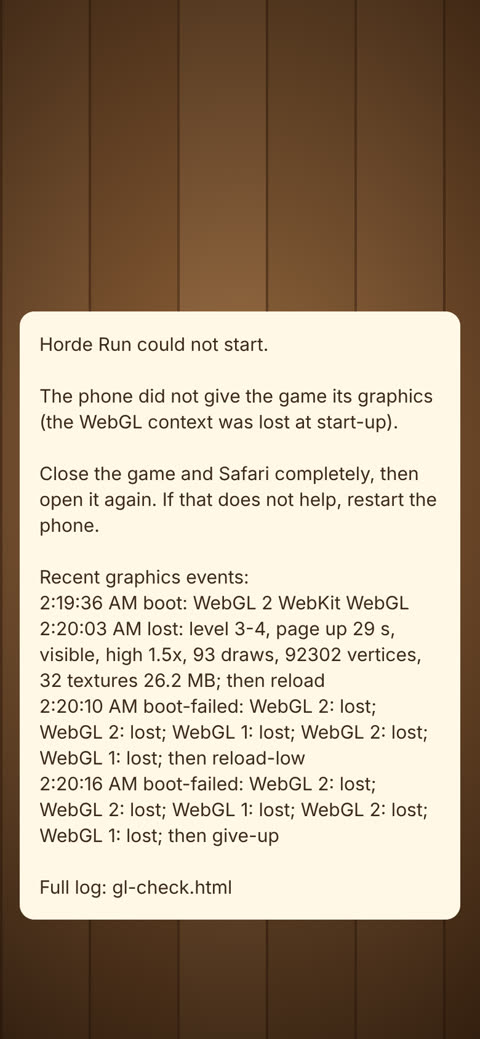
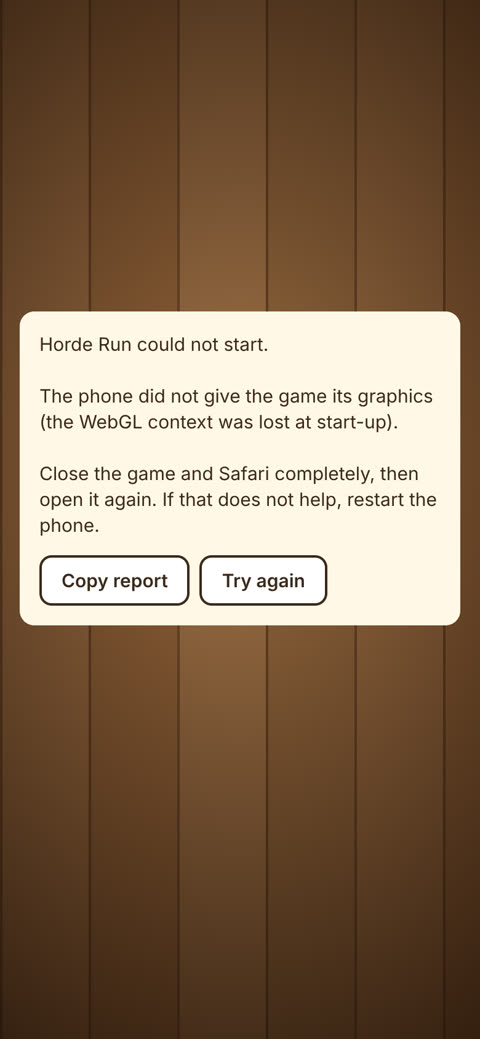
Error card: Copy report and Try again instead of the inline log
The card keeps only the message. Copy report copies a plain-text report for an
AI agent or developer: the error, device and page, a fresh WebGL probe, the
recovery state and render settings, the whole graphics log and the last 40
console warnings and errors (the boot guard now records them). Try again clears
this tab's recovery state and reloads, so the game gets its full retries.

Claude-Session: https://claude.ai/code/session_01AYf3ny518E4DqvJRbV2NNR

Changed region(s): [[0.0312, 0.5236, 0.9688, 0.8932]]

diff --git a/index.html b/index.html
@@ -196,25 +196,132 @@
     <script>
       // Boot guard: if the game fails to start (a script that won't load, an error before
       // the first screen, no WebGL), say so on screen instead of leaving an empty page.
+      // The card stays short; its Copy report button copies everything known about the
+      // failure (device, a WebGL probe, the graphics log of src/core/gpuLog.ts, recent
+      // console warnings and errors) as text to paste to whoever debugs it.
       (function () {
         var shown = false;
-        // The last graphics events (src/core/gpuLog.ts), so a screenshot of the card says
-        // what happened before it; the full log is on gl-check.html.
-        function history() {
+        var started = Date.now();
+        var consoleLines = [];
+        function remember(kind, args) {
           try {
-            var list = JSON.parse(localStorage.getItem('horde-run:gpu-log') || '[]').slice(-6);
-            if (!list.length) return '';
-            var lines = list.map(function (e) {
-              return new Date(e.at).toLocaleTimeString() + ' ' + e.event + ': ' + e.detail;
-            });
-            return '\n\nRecent graphics events:\n' + lines.join('\n') + '\n\nFull log: gl-check.html';
+            var text = Array.prototype.map
+              .call(args, function (a) {
+                return a && a.message ? a.message : String(a);
+              })
+              .join(' ');
+            consoleLines.push(new Date().toISOString().slice(11, 19) + ' ' + kind + ': ' + text.slice(0, 300));
+            if (consoleLines.length > 40) consoleLines.shift();
           } catch (e) {
-            return '';
+            // never let logging break the page
           }
+        }
+        ['warn', 'error'].forEach(function (kind) {
+          var orig = console[kind];
+          console[kind] = function () {
+            remember(kind, arguments);
+            return orig.apply(console, arguments);
+          };
+        });
+        function read(store, key) {
+          try {
+            return window[store].getItem(key);
+          } catch (e) {
+            return '(blocked)';
+          }
+        }
+        // Whether a fresh WebGL context comes back alive right now, then released at once.
+        function probe(type) {
+          try {
+            var gl = document.createElement('canvas').getContext(type);
+            if (!gl) return 'no context';
+            var lost = gl.isContextLost();
+            var ext = gl.getExtension('WEBGL_lose_context');
+            if (ext && !lost) ext.loseContext();
+            return lost ? 'lost' : 'ok';
+          } catch (e) {
+            return 'threw ' + e;
+          }
+        }
+        function report(text) {
+          var log = [];
+          try {
+            log = JSON.parse(localStorage.getItem('horde-run:gpu-log') || '[]');
+          } catch (e) {
+            log = [];
+          }
+          var standalone =
+            navigator.standalone === true || (window.matchMedia && matchMedia('(display-mode: standalone)').matches);
+          return [
+            'Horde Run error report (for an AI agent or developer debugging the game).',
+            'Game: Horde Run, a Babylon.js 9 WebGL phone game, https://github.com/michelmattos/horde-run',
+            '(start-up and recovery: src/main.ts and src/core/recovery.ts; graphics log: src/core/gpuLog.ts).',
+            '',
+            'Error shown:',
+            text,
+            '',
+            'When: ' + new Date().toString() + ', page open ' + Math.round((Date.now() - started) / 1000) + ' s',
+            'Page: ' + location.href,
+            'Agent: ' + navigator.userAgent,
+            'Screen: ' + innerWidth + 'x' + innerHeight + ' css px, pixel ratio ' + devicePixelRatio,
+            'Home Screen app: ' + standalone,
+            'Service worker controls page: ' + !!(navigator.serviceWorker && navigator.serviceWorker.controller),
+            'WebGL probe now: webgl2 ' + probe('webgl2') + ', webgl ' + probe('webgl'),
+            'Recovery state (this tab): ' + read('sessionStorage', 'horde-run:gpu-recovery'),
+            'Render settings: ' + read('localStorage', 'horde-run:render-v1'),
+            '',
+            'Graphics log (newest last):',
+            log.length
+              ? log
+                  .map(function (e) {
+                    return new Date(e.at).toISOString() + ' ' + e.event + ': ' + e.detail;
+                  })
+                  .join('\n')
+              : '(empty)',
+            '',
+            'Console warnings and errors (newest last):',
+            consoleLines.length ? consoleLines.join('\n') : '(none)',
+          ].join('\n');
+        }
+        function copy(text, done) {
+          function fallback() {
+            var ta = document.createElement('textarea');
+            ta.value = text;
+            ta.setAttribute('readonly', '');
+            ta.style.cssText = 'position:fixed;top:0;left:0;opacity:0';
+            document.body.appendChild(ta);
+            ta.select();
+            ta.setSelectionRange(0, text.length);
+            var ok = false;
+            try {
+              ok = document.execCommand('copy');
+            } catch (e) {
+              ok = false;
+            }
+            ta.remove();
+            done(ok);
+          }
+          if (navigator.clipboard && navigator.clipboard.writeText)
+            navigator.clipboard.writeText(text).then(function () {
+              done(true);
+            }, fallback);
+          else fallback();
+        }
+        function button(label) {
+          var b = document.createElement('button');
+          b.type = 'button';
+          b.textContent = label;
+          b.setAttribute(
+            'style',
+            'font:600 15px/1 -apple-system,system-ui,sans-serif;padding:11px 16px;margin:14px 8px 0 0;border-radius:10px;' +
+              'border:2px solid #3b2a1a;background:#fff;color:#3b2a1a',
+          );
+          return b;
         }
         function show(msg, title) {
           if (shown || (!title && window.__hordeBooted)) return;
           shown = true;
+          var text = (title || 'Horde Run could not start.') + '\n\n' + msg;
           // Stop promising progress: the loading screen keeps only its background.
           var ld = document.getElementById('loading');
           if (ld) ld.className = 'failed';
@@ -224,9 +331,30 @@
             'style',
             'position:fixed;left:16px;right:16px;top:30%;padding:16px;border-radius:12px;background:#fff8e7;' +
               'color:#3b2a1a;font:15px/1.4 -apple-system,system-ui,sans-serif;z-index:99;white-space:pre-wrap;' +
-              'max-height:60%;overflow:auto;-webkit-user-select:text;user-select:text',
+              'max-height:60%;overflow:auto',
           );
-          d.textContent = (title || 'Horde Run could not start.') + '\n\n' + msg + history();
+          var p = document.createElement('div');
+          p.textContent = text;
+          var copyBtn = button('Copy report');
+          copyBtn.dataset.action = 'copy-report';
+          copyBtn.onclick = function () {
+            var r = report(text);
+            window.__hordeReport = r; // the smoke test reads what was copied
+            copy(r, function (ok) {
+              copyBtn.textContent = ok ? 'Copied' : 'Copy failed';
+            });
+          };
+          // A fresh start: forget this tab's recent losses so the game gets its full retries.
+          var retry = button('Try again');
+          retry.onclick = function () {
+            try {
+              sessionStorage.removeItem('horde-run:gpu-recovery');
+            } catch (e) {
+              // blocked storage: reload anyway
+            }
+            location.reload();
+          };
+          d.append(p, copyBtn, retry);
           (document.body || document.documentElement).appendChild(d);
         }
         window.__hordeBootError = function (msg) {
@@ -242,12 +370,14 @@
             var t = e.target;
             // A missing image or font is not fatal; a script that will not load is.
             if (t && t !== window && t.tagName && t.tagName !== 'SCRIPT') return;
+            remember('uncaught', [e.message || 'Could not load ' + ((t && (t.src || t.href)) || 'a file')]);
             show(e.message || 'Could not load ' + ((t && (t.src || t.href)) || 'a file') + '.');
           },
           true,
         );
         addEventListener('unhandledrejection', function (e) {
           var r = e.reason;
+          remember('unhandled rejection', [r]);
           show(String((r && r.message) || r));
         });
         setTimeout(function () {

diff --git a/src/core/gpuLog.ts b/src/core/gpuLog.ts
@@ -2,7 +2,8 @@
 // the recovery reloads and closing the app: each boot (which WebGL it got, or why each
 // start-up attempt failed) and each loss mid-game (where the player was, how long the
 // page had run, what the renderer held). The phone gives no other trace of a lost
-// context, so the error cards (index.html boot guard) and public/gl-check.html show it.
+// context, so the error card's Copy report (index.html boot guard) and public/gl-check.html
+// include it.
 
 export interface GpuLogEntry {
   at: number; // ms timestamp
